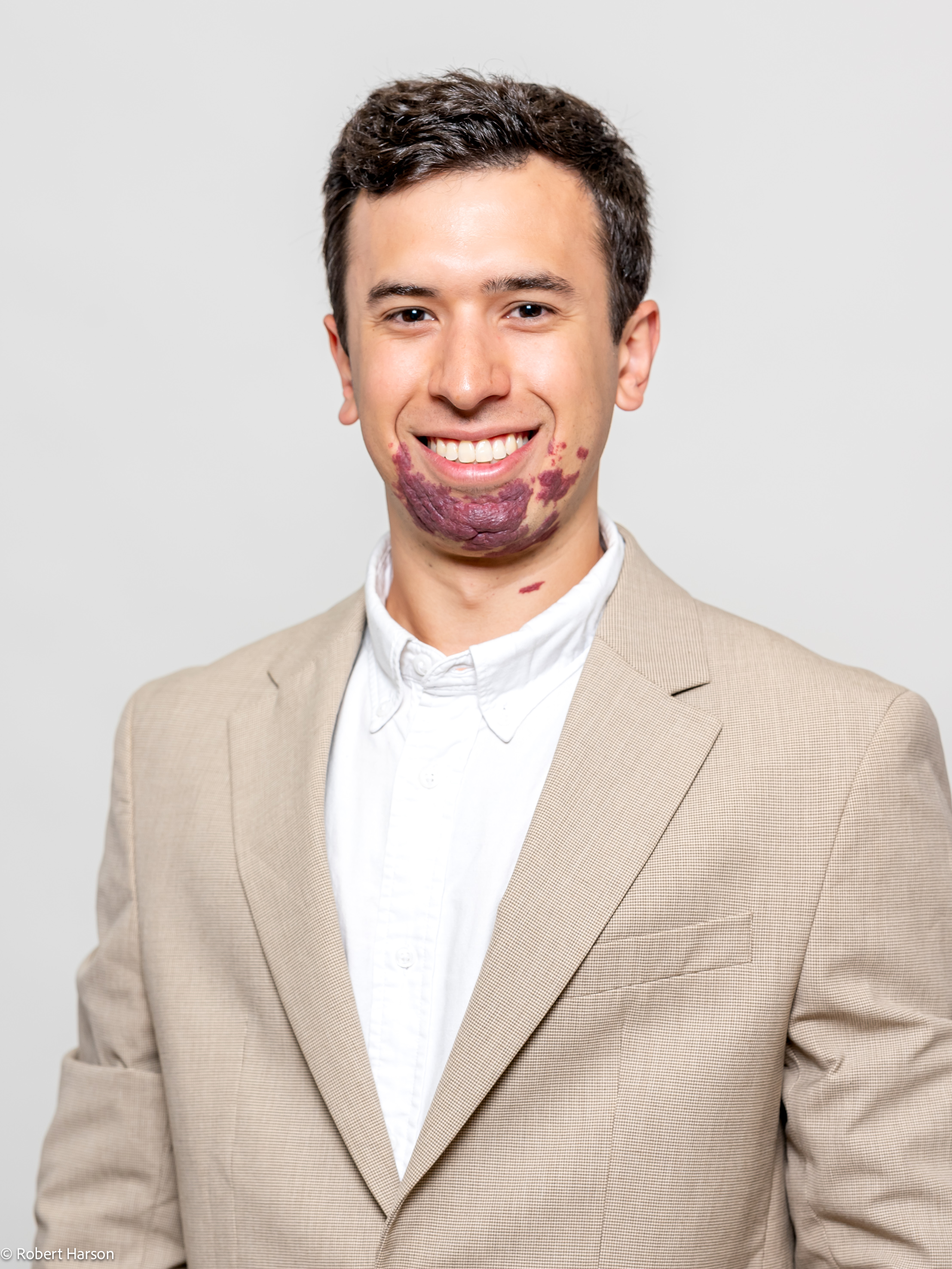
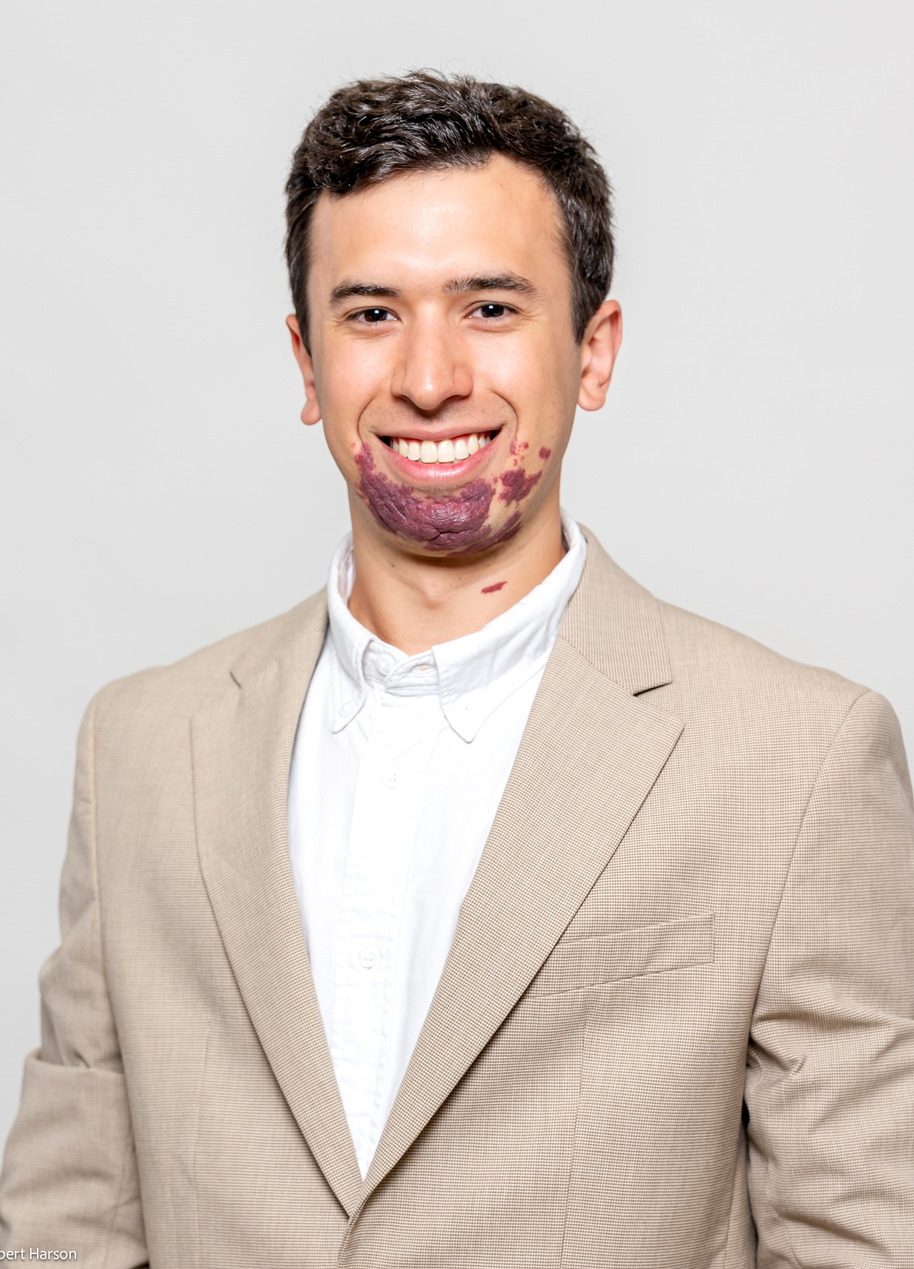
Typos

Changed region(s): [[0.0, 0.0312, 0.9615, 1.0], [0.9305, 0.997, 0.9615, 1.0]]

diff --git a/index.html b/index.html
@@ -8,11 +8,11 @@
   <link rel="canonical" href="https://ssouzanava.github.io/" />
   
   <!-- SEO & OpenGraph Meta Tags -->
-  <meta name="description" content="Personal portfolio of Santiago Souza Nava — PhD Candidate in Analytical Chemistry & Chemometrics, MSc in Bioinformatics & Biostatistics, and Biotechnology Engineer bridging wet-lab science and machine learning." />
+  <meta name="description" content="Personal portfolio of Santiago Souza Nava — PhD Researcher in Analytical Chemistry & Research Associate, MSc in Bioinformatics & Biostatistics, and Biotechnology Engineer bridging wet-lab science and machine learning." />
   <meta name="keywords" content="Santiago Souza Nava, Bioinformatics, Chemometrics, Machine Learning, LC-MS, Analytical Chemistry, Data Science, BOKU, FFoQSI, Biotech, Computational Biology" />
   <meta name="author" content="Santiago Souza Nava" />
   <meta property="og:title" content="Santiago Souza Nava | Computational Scientist & AI/ML Researcher" />
-  <meta property="og:description" content="From the lab to the algorithm: advancing food, biotech, and healthcare through data-driven analysis." />
+  <meta property="og:description" content="From the lab to the algorithm: applying data-driven methods across food, biotechnology, and life sciences." />
   <meta property="og:type" content="website" />
 
   <!-- Google Fonts: Inter & JetBrains Mono -->
@@ -179,7 +179,7 @@
           <div class="flex flex-wrap items-center gap-2 sm:gap-3 mb-8">
             <span class="inline-flex items-center gap-1.5 px-3 py-1 rounded-md text-xs sm:text-sm font-mono font-medium bg-bioTeal-500/10 text-bioTeal-600 dark:text-bioTeal-400 border border-bioTeal-500/30">
               <i data-lucide="flask-conical" class="w-3.5 h-3.5"></i>
-              PhD Candidate in Analytical Chemistry & Chemometrics (BOKU & FFoQSI)
+              PhD Researcher in Analytical Chemistry & Research Associate
             </span>
             <span class="inline-flex items-center gap-1.5 px-3 py-1 rounded-md text-xs sm:text-sm font-mono font-medium bg-bioIndigo-500/10 text-bioIndigo-600 dark:text-bioIndigo-400 border border-bioIndigo-500/30">
               <i data-lucide="dna" class="w-3.5 h-3.5"></i>
@@ -193,7 +193,7 @@
 
           <!-- Tagline -->
           <p class="text-xl sm:text-2xl lg:text-3xl font-semibold text-transparent bg-clip-text bg-gradient-to-r from-slate-900 via-bioTeal-600 to-bioIndigo-600 dark:from-white dark:via-bioTeal-400 dark:to-bioIndigo-400 mb-6 leading-snug">
-            "From the lab to the algorithm: advancing food, biotech, and healthcare through data-driven analysis."
+            "From the lab to the algorithm: applying data-driven methods across food, biotechnology, and life sciences."
           </p>
 
           <!-- Summary Pitch -->
@@ -826,7 +826,7 @@
                 <span class="absolute -left-[41px] top-1 w-5 h-5 rounded-full bg-bioIndigo-500 ring-4 ring-white dark:ring-slateDark"></span>
                 <div class="flex flex-wrap items-center gap-2 mb-1">
                   <span class="font-mono text-xs font-semibold uppercase px-2.5 py-0.5 rounded bg-bioIndigo-500/10 text-bioIndigo-600 dark:text-bioIndigo-400">
-                    2024 • Murcia, Spain
+                    2023–2024 • Murcia, Spain
                   </span>
                 </div>
                 <h3 class="text-lg font-bold text-slate-900 dark:text-white">
@@ -883,11 +883,11 @@
                 <span class="absolute -left-[41px] top-1 w-5 h-5 rounded-full bg-slate-400 dark:bg-slate-600 ring-4 ring-white dark:ring-slateDark"></span>
                 <div class="flex flex-wrap items-center gap-2 mb-1">
                   <span class="font-mono text-xs font-semibold uppercase px-2.5 py-0.5 rounded bg-slate-200 dark:bg-slate-800 text-slate-700 dark:text-slate-300">
-                    2023 • Montevideo, Uruguay
+                    2016–2023 • Montevideo, Uruguay
                   </span>
                 </div>
                 <h3 class="text-lg font-bold text-slate-900 dark:text-white">
-                  Biotechnology Engineering
+                  Biotechnology Engineer
                 </h3>
                 <p class="text-sm font-medium text-bioIndigo-600 dark:text-bioIndigo-400 mb-1">
                   Universidad ORT Uruguay
